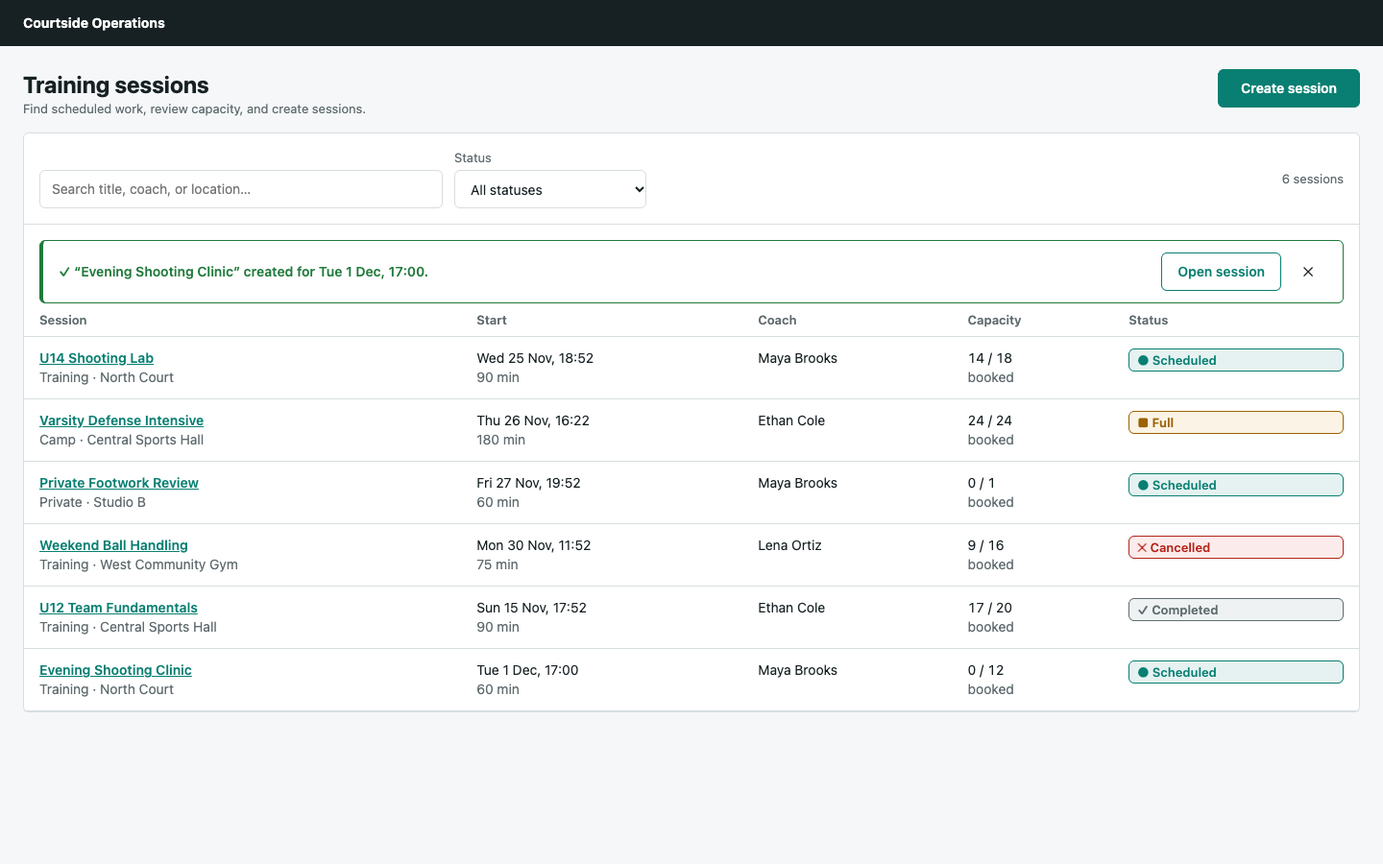
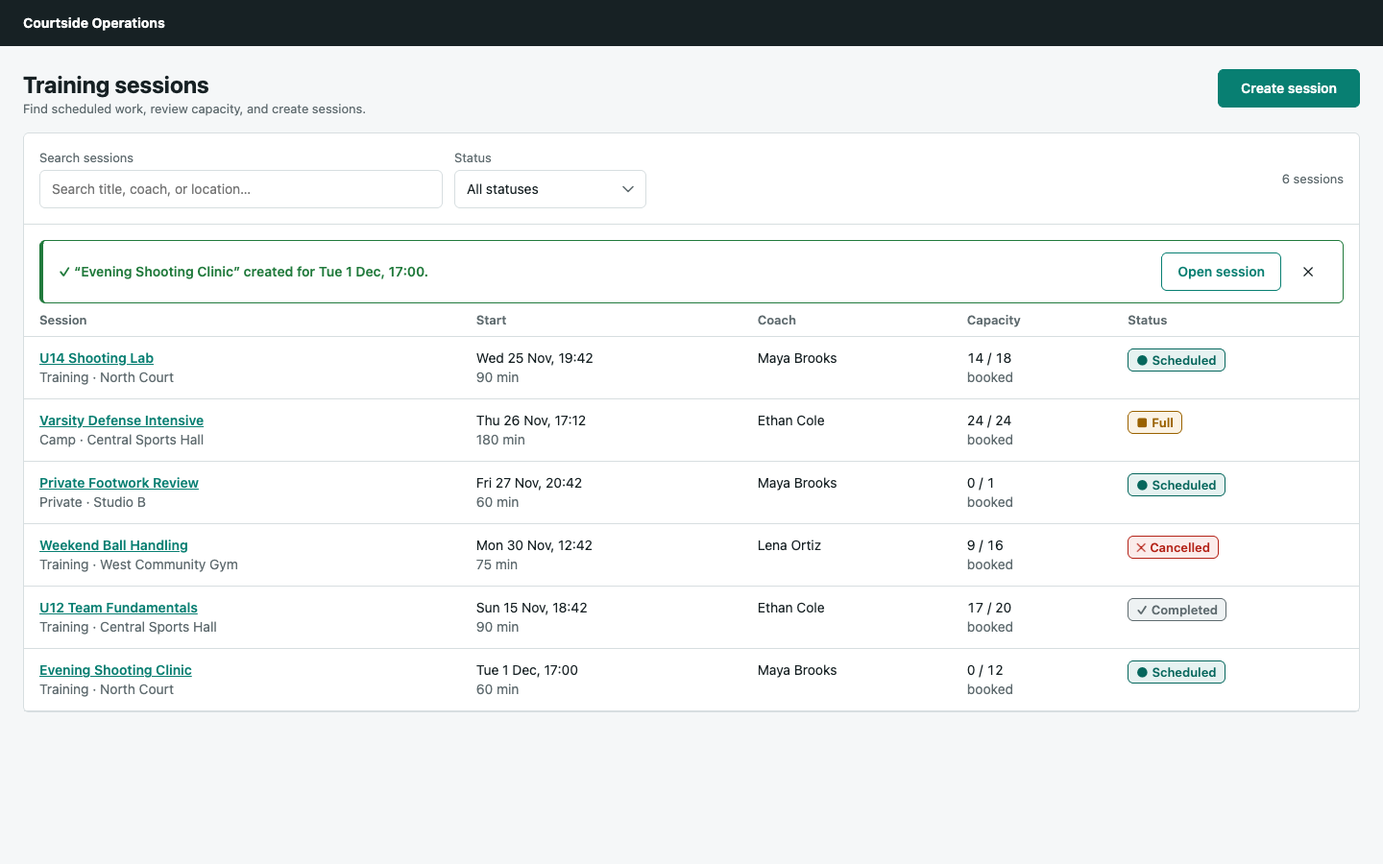
docs: TASK-001 review, verification and final browser evidence
- review.md and verification.md transcribed from the prompt log
  (code-review rounds L33-L51 with dispositions; verify runs L43, L55,
  L59, L63), including post-review changes made without a coder role
- browser-verification.md: final full run (session task001-final) on
  current code, PASS; all screenshots re-captured, plus mobile
  create-error and list-error captures
- final-report.md updated to reference the final run and the new files

diff --git a/tasks/TASK-001/browser-verification.md b/tasks/TASK-001/browser-verification.md
@@ -1,8 +1,59 @@
 # TASK-001 Browser Verification
 
-Current verdict: **PASS**. This comes from the re-verification run (session `task001-reverify`, see "Re-verification of F1–F4" below), after the F1–F4 fixes.
+Current verdict: **PASS**. This comes from the final full run on the current code (session `task001-final`, see "Final verification on current code" below).
 
-The first run (session `task001-verify`) returned **FAIL** because of F1 and F2. Its record is kept below, and its screenshots of the populated, no-matches, list-error, details-error, coaches-error and create-error states were replaced by the re-verification captures. It superseded an earlier BLOCKED record (Node 23.11.1); that run was re-done after the runtime switched to Node 24.22.3.
+Earlier runs, kept below as history:
+- **Re-verification of F1–F4** (session `task001-reverify`): **PASS**.
+- **First run** (session `task001-verify`): **FAIL**, because of F1 and F2.
+- **An earlier record**: **BLOCKED** (Node 23.11.1).
+
+**All screenshots in `evidence/` were re-captured in the final run.** Their descriptions in the older sections refer to earlier captures, which were overwritten.
+
+## Final verification on current code
+
+| Item | Value |
+| --- | --- |
+| Date | 2026-11-18 |
+| Code state | HEAD `26ceb86` (production code identical to `ff53791`: `git diff ff53791 HEAD -- src index.html package.json vite.config.ts` is empty). This includes the backdrop-click close (`6d85645`) and the visible search label with padded select chevron (`ff53791`). |
+| Readiness gate | `node toolchain/bin/doctor.mjs --json` → **DEGRADED**. node 24.22.3 PASS, manifest PASS, `capability:browser` agent-browser@0.32.3 PASS, `hooks:claude` ACTIVE, `hooks:codex` PENDING_ACTIVATION (not the assessed runtime), lint PASS. |
+| Adapter / session | `node toolchain/bin/agent-browser.mjs`, session `task001-final` |
+| URL | `http://localhost:5173/` |
+| Server ownership | Pre-existing user Vite dev server, PID 82635 (`node …/node_modules/.bin/vite`, cwd = repo root). Not started or stopped by this role. |
+| Viewports | 1440×900 and 390×844 |
+
+| State / flow | Verdict | Interactions and observations |
+| --- | --- | --- |
+| Populated 1440×900 | PASS | Snapshot: h1 "Training sessions", button "Create session", searchbox "Search sessions" (visible label), combobox "Status", region "Sessions" with 5 column headers and 5 row links. Count "5 sessions". `scrollWidth` 1440 = `innerWidth`. Badges `inline-flex`, 57–103px. `evidence/populated-desktop.png` |
+| Populated 390×844 | PASS | `scrollWidth` 390 = `innerWidth`; 0 elements cross the viewport edges; 0 links/buttons/inputs/selects under 44px. Tab order: Skip link → Create session → search → status → first session link, each with a 2px solid outline. `evidence/populated-mobile.png` |
+| Details: keyboard | PASS | 390×844: Enter on the focused "U14 Shooting Lab" → `:modal` dialog, `?session=ses_101`, focus on `#session-details-title`. Esc → URL cleared, focus back on the link. `evidence/details-mobile.png` |
+| Details: backdrop click (`6d85645`) | PASS | 1440×900: click inside the panel (1200,400) → stays open. Click on the backdrop (200,400) → closes, URL cleared, focus on the originating link. |
+| List context | PASS | `?query=maya&status=scheduled` → 2 rows. Open details → `…&session=ses_101`. Browser Back → same URL, 2 rows, focus on the link. Filtering is server-side (`GET /api/sessions?query=maya&status=scheduled` 200). |
+| No matches | PASS | `?query=zzz` → "No sessions match your filters / Search “zzz” / Clear filters" (`evidence/no-matches-desktop.png`). Clicking the block's Clear filters → `flashedEmpty=false` (MutationObserver sampled every 60 ms for 1.2 s); focus on `#session-search`; 5 rows. |
+| Empty (`scenario=empty`) | PASS | "No sessions yet / Create the first session to start scheduling. / Create session". `evidence/empty-desktop.png` |
+| Create: validation | PASS | Empty submit → 7 controls `aria-invalid` (title, date, time, capacity, coach, location name, address), 6 inline errors, focus on `#create-title`, `aria-describedby="create-title-error"`, no POST. Past start → "⚠ Choose a start time in the future." `evidence/create-validation-desktop.png` |
+| Create: pending prevention | PASS | Submit clicked 3× (two within 30 ms) → button "Creating…" and disabled; exactly **1** `POST /api/sessions` 201 for this create. |
+| Create: success and discoverability | PASS | Banner "✓ “Evening Shooting Clinic” created for Tue 1 Dec, 17:00." with Open session; focus on the banner; list "6 sessions", new title last (`evidence/create-success-desktop.png`). Open session → `?session=ses_new_1`. With `status=cancelled`: banner adds "It’s hidden by your current filters." + Reset filters (`evidence/create-hidden-by-filter-desktop.png`). Reset → URL cleared, focus on search, 7 rows ending "Hidden By Filter Camp" (second POST 201). |
+| Create failure (`scenario=create-error`) | PASS | POST 500. Alert "⚠ The session could not be created. Your entries are kept, so you can try again." receives focus. All 8 values preserved (title, date, time, coach, location name, address, capacity, trainer notes). Submit re-enabled. `evidence/create-error-desktop.png`, and at 390×844 (`scrollWidth` 390) `evidence/create-error-mobile.png` |
+| List error (`scenario=list-error`) | PASS | Alert "⚠ Sessions cannot be loaded right now." + Retry; the toolbar stays usable. Retry sends a new request (500 again; the scenario is fixed). `evidence/list-error-mobile.png`, `evidence/list-error-desktop.png` |
+| Details error (`scenario=details-error&session=ses_101`) | PASS | Dialog "U14 Shooting Lab" with in-dialog alert "⚠ Session details cannot be loaded right now." + Retry. The list (5 rows) is unaffected. Back to sessions → focus on the "U14 Shooting Lab" link. `ses_102` then loads normally. `evidence/details-error-desktop.png` |
+| Unknown session (`?session=ses_unknown`) | PASS | 404 → dialog heading "Session not found". |
+| Coaches error (`scenario=coaches-error&create=1`) | PASS | Alert "⚠ Coach choices cannot be loaded right now. You can't create a session until they load." + "Retry loading coaches". Coach select disabled, submit disabled, visible reason "Coach choices are required before you can create a session." Retry sends a new request (500 again). `evidence/coaches-error-desktop.png` |
+| Reduced motion | PASS | Emulated `prefers-reduced-motion: reduce` → open dialog `animation-name: none`. |
+
+**Console:** levels were log 174, debug 12, info 6, and startGroupCollapsed/endGroup 54 (MSW request logging). **0 error and 0 warning entries.** The console was cleared once, after the page load and before any interaction, and not again; it covers the whole run.
+
+**Page errors:** none.
+
+**Network:**
+- Non-2xx `/api` responses were only the scenario-expected ones: `POST /api/sessions` 500 (create-error), `GET /api/sessions` 500 ×2 (list-error and retry), `GET /api/sessions/ses_101` 500 (details-error), `GET /api/sessions/ses_unknown` 404, `GET /api/coaches` 500 ×2 (coaches-error and retry).
+- No failed non-API requests.
+- No unexpected navigation.
+
+**Not verified in this run:**
+- Esc on a dirty create form (it involves the native `confirm()`, not driven by the adapter). The developer-reported Esc failure was not reproduced: Esc closed details here.
+- Screen-reader announcements; Firefox and Safari; real touch devices; long-content stress.
+
+**Closure:** `close` → `session list` "No active sessions". PID 82635 is still running and was not stopped.
 
 ## Setup
 

diff --git a/tasks/TASK-001/final-report.md b/tasks/TASK-001/final-report.md
@@ -12,12 +12,13 @@ Training Sessions Workspace per `frontend-accelerator-assessment/FRONTEND_ASSESS
 | `777a5b1` | Implementation, essential tests, review and browser-verification fixes, browser evidence |
 | `6d85645` | Fix: close dialogs on backdrop click (developer-reported) |
 | `ff53791` | Fix: visible search label, padded select chevrons (developer-reported) |
+| `26ceb86` | Documentation only: `final-report.md` (no production code change vs `ff53791`) |
 
 Branch: `task-001-sessions-workspace`. `main` remains at `9cf16da`. Nothing has been pushed.
 
 ## 2. Code review evidence
 
-`review.md` has **not** been written; the verdicts below are preserved only in the prompt log.
+Full record: `review.md`, transcribed from the prompt log.
 
 | Round | Verdict | Findings and disposition | Source |
 | --- | --- | --- | --- |
@@ -30,7 +31,7 @@ The two developer-reported fixes after the review rounds (`6d85645`, `ff53791`) 
 
 ## 3. Automated verification evidence
 
-`verification.md` has **not** been written.
+Full record: `verification.md`, transcribed from the prompt log.
 
 **Formal `verify` role run** (L43; working directory `/Users/user/Documents/fe-accelerator-cert`; Node v23.11.1, npm 10.9.2). This ran before the F1–F4 fixes and the later commits.
 
@@ -59,27 +60,27 @@ Full record: `browser-verification.md`. Screenshots: `evidence/`.
 | --- | --- | --- | --- |
 | 1 | BLOCKED | Doctor `BLOCKED`: Node.js 23.11.1 unsupported. No browser was opened. | L45 |
 | 2: session `task001-verify` | FAIL | Every required flow works. Defects: F1 Scheduled badge contrast 4.27:1; F2 "No sessions yet" flash after clearing filters; F3 badges stretched full width; F4 duplicated alert copy. | L47 |
-| 3: session `task001-reverify` | **PASS** | F1 5.90:1, F2 no flash in 3 sampled runs, F3 badges `inline-flex` 57–103px, F4 single-message alerts with input preserved. 0 console errors/warnings, 0 page errors; only scenario-expected 500s. | L53 |
+| 3: session `task001-reverify` | PASS | F1 5.90:1, F2 no flash in 3 sampled runs, F3 badges `inline-flex` 57–103px, F4 single-message alerts with input preserved. 0 console errors/warnings, 0 page errors; only scenario-expected 500s. | L53 |
+| 4: session `task001-final`, current code (`26ceb86` = `ff53791` for production code) | **PASS** (current) | Full required matrix re-run, including backdrop-click close and the visible search label. All 12 screenshots were re-captured, and 2 mobile error-state captures were added (`create-error-mobile.png`, `list-error-mobile.png`). Console cleared once before any interaction: 0 errors/warnings, 0 page errors. Only scenario-expected non-2xx responses (500s and one 404); no failed non-API requests. | L71 |
 
 **Environment:** URL `http://localhost:5173/`. The server is a pre-existing user Vite dev server (PID 82635); it was neither started nor stopped by the role. Viewports were 1440×900 and 390×844. Adapter sessions were closed after each run ("No active sessions").
 
-**Required matrix, as covered by runs 2–3:**
+**Required matrix, as covered by run 4** (also covered by runs 2–3 on earlier code):
 - populated desktop and mobile, including the accessibility snapshot, Tab order, focus outline, no horizontal overflow, and 44px targets;
 - create: validation, pending prevention (3 rapid clicks → 1 POST), success and hidden-by-filter discoverability;
 - create failure with preserved input;
 - empty and no-matches as distinct states;
-- list, details and coaches errors, and an unknown session (404).
+- list, details and coaches errors, and an unknown session (404);
+- in run 4 only: backdrop click closes details and a click inside does not; Esc closes details; reduced motion disables the dialog animation.
 
-**Ad-hoc browser checks outside the `browser-verify` role** (headless Chromium via the project adapter):
+**Earlier ad-hoc browser checks outside the `browser-verify` role** (headless Chromium via the project adapter; since superseded by run 4):
 - backdrop click closes the dialog, clicks inside do not, and a drag from inside to the backdrop does not; Esc closes both dialogs (L57);
 - search label alignment and select chevron at both viewports (L61).
 
 ## 5. Limitations and unverified items
 
-- **Stale screenshots:** `evidence/*.png` predate `ff53791`. They show the old toolbar (no visible search label, native select arrow). `browser-verify` has not been re-run since `6d85645` and `ff53791`.
-- **Esc report:** the developer reported that Esc did not close the modal. This could not be reproduced in headless Chromium (L57). The browser and version have not been confirmed.
-- **Not verified:** Chrome's repeated-Esc behaviour with the native `confirm()`, screen-reader announcements, Firefox and Safari, real touch devices, long-content stress, and mobile screenshots of error and create states (browser-verification.md "Not verified").
-- **Console gap:** the run-2 console was cleared mid-run. The first filter and create pass is covered only by a later normal-flow re-check (browser-verification.md).
+- **Esc report:** the developer reported that Esc did not close the modal. This could not be reproduced in headless Chromium (L57, L71). The developer's browser and version have not been confirmed.
+- **Not verified:** Esc on a dirty create form (native `confirm()`), screen-reader announcements, Firefox and Safari, real touch devices, long-content stress (browser-verification.md, final run "Not verified").
 - **Missing automated tests:** `details-error`, `coaches-error`, details deep link, duplicate submit (review rounds 1–4 "Remaining gaps").
 - **Accepted limitation:** server field errors are cleared when any field is edited after the first submit (review round 1 and 2 dispositions).
 
@@ -104,10 +105,10 @@ Full record: `browser-verification.md`. Screenshots: `evidence/`.
 | --- | --- |
 | requirements, architecture, api-integration, ui-design, implementation-plan | present, committed in `9cf16da` before `coder` |
 | workflow-log.md | present. Planning checkpoint is recorded. **Developer-recorded fields are blank:** assessment starting commit, start/finish, breaks, active/calendar time, runtime/accelerator version, setup method, Doctor result. "Skipped or invoked contextual roles" is empty. |
-| review.md | **missing** (verdicts only in prompt log L33–L51) |
-| verification.md | **missing** (results only in prompt log L43, L55, L59, L63) |
-| browser-verification.md | present (current verdict PASS, predates `6d85645` / `ff53791`) |
-| evidence/populated-desktop.png, populated-mobile.png | present (pre-`ff53791` toolbar) |
+| review.md | present (transcribed from prompt log L33–L63) |
+| verification.md | present (transcribed from prompt log L43, L55, L59, L63) |
+| browser-verification.md | present (current verdict PASS from run 4 on current code) |
+| evidence/populated-desktop.png, populated-mobile.png | present (re-captured in run 4 on current code), plus 12 further flow screenshots |
 | final-report.md | this file |
 
 Time values are not included here. They must be developer-recorded in `workflow-log.md` and are not inferred.

diff --git a/tasks/TASK-001/review.md b/tasks/TASK-001/review.md
@@ -1,0 +1,76 @@
+# TASK-001 Review Evidence
+
+This file transcribes the actual `code-reviewer` verdicts and findings from `workflow-evidence/prompt-log.jsonl` (L*n* = line number; each is a `Stop` event carrying the role's full response). Nothing here was re-reviewed or re-judged while writing it.
+
+- **Reviewer independence:** the reviewer ran in the same session and model as `coder`. Every review response states "I wrote this code, so this review isn't independent."
+- **Review surface:** the working tree (including untracked `src/**`) against the planning checkpoint `9cf16da`. The `dirty` field of each log entry shows the uncommitted file set.
+
+## Round 1: full TASK-001 diff
+
+- Source: L33, 2026-11-18T13:37:15Z
+- **Verdict: NEEDS-CHANGES** (2 should-fix, 3 minor)
+
+| # | Severity | Finding | Disposition |
+| --- | --- | --- | --- |
+| 1 | Should-fix | `src/components/Dialog.tsx:40`: only `cancel` was handled, not the native `close` event. If the browser closes a dialog itself (e.g. Chrome ignores a repeated-Esc `preventDefault`), the URL keeps `create=1`/`session=` and "Create session" can no longer reopen it. | **Resolved**: `coder` (L35) added an `onClose` handler (`onDismiss`) that clears URL state on a browser-initiated close. A regression check closes the dialog natively and reopens it; it failed with the fix disabled and passed with it. |
+| 2 | Should-fix | `SessionsWorkspace.tsx:80,103,121`: Reset filters (banner), Clear filters (no-matches) and Clear filters (invalid-filter alert) remove themselves, so keyboard focus is lost (AC-8). | **Resolved** (L35): the shared clear-filters action moves focus to `#session-search`. The test asserts focus after Reset filters. |
+| 3 | Minor | `src/main.tsx:8`: a rejected `startMocks()` leaves a blank page. | **Resolved** (L35): the rejection handler logs the error and renders a message. |
+| 4 | Minor | `CreateSessionDialog.tsx:86,271`: a server `visibility` field error has no render slot or focus target. Separately, server field errors are cleared by any edit after the first submit. | **Resolved** (L35) for the visibility slot and focus target. **Accepted limitation** for clearing on edit: not reachable from the UI because the form always sends valid values. Impact: a future backend field error disappears on the next edit. |
+| 5 | Minor | `src/mocks/db.ts:75`: `crypto.randomUUID()` requires a secure context, so create returns 500 over LAN http. | **Resolved** (L35): ids come from a counter (`ses_new_N`). |
+
+## Round 2: re-review of round-1 fixes
+
+- Source: L37, 2026-11-18T13:42:21Z
+- **Verdict: NEEDS-CHANGES** (1 should-fix, marked "likely, needs a browser to confirm")
+
+| # | Severity | Finding | Disposition |
+| --- | --- | --- | --- |
+| 6 | Should-fix | `Dialog.tsx:29-31,49-51`: under the StrictMode remount, a queued `close` event from the cleanup can arrive after `showModal()` and dismiss a freshly opened dialog in dev. The tests missed it because they render without StrictMode and the jsdom stand-in fires `close` synchronously. | **Resolved** by `coder` (L39): the handler also requires `!ref.current?.open`. `src/test/setup.ts` now enables `reactStrictMode` and dispatches `close` asynchronously. 3 tests failed with the guard removed; 6/6 passed with it. |
+
+Round 1 findings 1–5 were confirmed resolved in this round. Finding 4's clear-on-edit part was confirmed as an accepted limitation.
+
+## Round 3: re-review of the Dialog fix
+
+- Source: L41, 2026-11-18T13:43:22Z
+- **Verdict: PASS.** No findings.
+
+## Round 4: re-review of browser-verification fixes F1–F4
+
+- Source: L51, 2026-11-18T14:02:09Z
+- **Verdict: PASS.** One optional finding.
+
+F1–F4 came from `browser-verify` run 2 (L47) and were fixed by `coder` (L49):
+
+| ID | Defect | Fix |
+| --- | --- | --- |
+| F1 | Scheduled badge contrast 4.27:1 | Badge text uses `--primary-hover`, 5.90:1 |
+| F2 | "No sessions yet" flashed after clearing filters | Each list result carries the filters that produced it. A MutationObserver regression check failed before the fix and passed after. |
+| F3 | Badges stretched across the full column | Table span rules exclude `.badge` |
+| F4 | Alerts showed duplicated copy | One message per alert |
+
+This round confirmed all four.
+
+| # | Severity | Finding | Disposition |
+| --- | --- | --- | --- |
+| 7 | Optional (copy) | `CreateSessionDialog.tsx:93`: on a network failure the create alert says "try again" twice. | **Unresolved** (optional; no change made). |
+
+## Production changes after the last review
+
+Both changes below were made directly in the main session at the developer's request, **without** a `coder` role invocation, and **without** another `code-reviewer` pass.
+
+| Commit | Change | Checks performed |
+| --- | --- | --- |
+| `6d85645` | Close dialogs on backdrop click (developer-reported issue, L56–L57). | Regression assertion added to test 1; it failed with the fix disabled and passed with it. Ad-hoc browser check in headless Chromium via the project adapter (L57). Pre-commit `verify` PASS (L59). |
+| `ff53791` | Visible search label and padded select chevron (developer-reported, L60–L61). | Ad-hoc browser check at both viewports (L61). Pre-commit `verify` PASS (L63). |
+
+The developer's report that Esc did not close the modal could not be reproduced (L57). It remains **unresolved** pending the developer's browser and steps.
+
+## Summary
+
+| Round | Verdict | Open items after the round |
+| --- | --- | --- |
+| 1 (L33) | NEEDS-CHANGES | 5 → all resolved by L35, with one accepted limitation |
+| 2 (L37) | NEEDS-CHANGES | 1 → resolved by L39 |
+| 3 (L41) | PASS | 0 |
+| 4 (L51) | PASS | 1 optional copy nit, unresolved |
+| Post-review commits | not reviewed | Esc report unresolved |

diff --git a/tasks/TASK-001/verification.md b/tasks/TASK-001/verification.md
@@ -1,0 +1,59 @@
+# TASK-001 Verification Evidence
+
+This file transcribes automated check results from `workflow-evidence/prompt-log.jsonl` (L*n* = line number). No checks were re-run while writing it. Browser verification is recorded separately in `browser-verification.md`.
+
+- **Working directory:** `/Users/user/Documents/fe-accelerator-cert` for all runs.
+- **Project scripts:** `build` = `tsc -b && vite build`, `lint` = `eslint .`, `test` = `vitest run`, `dev` = `vite`, `preview` = `vite preview`.
+
+## Formal `verify` role run
+
+- Source: L43, 2026-11-18T13:44:55Z
+- Runtime: Node v23.11.1, npm 10.9.2
+- Code state: `gitHead` `9cf16da` with the uncommitted implementation, including review fixes through round 3. F1–F4 and the later commits were **not** included yet.
+- **Verdict: PASS**
+
+| Check | Command | Exit | Decisive output |
+| --- | --- | --- | --- |
+| Typecheck | `npx tsc -b` | 0 | no errors |
+| Lint | `npm run lint` | 0 | 0 errors, 1 warning: "Unused eslint-disable directive" in generated `public/mockServiceWorker.js` |
+| Tests | `npm test` (Vitest 5.1.1) | 0 | Test Files 1 passed (1); Tests 6 passed (6); 3.75s; no stderr, warning or console-error lines in the output |
+| Build | `npm run build` | 0 | built in 121ms; `dist/assets/index-*.js` 682.92 kB (gzip 238.54 kB); Vite warns about chunks larger than 500 kB (expected, because MSW and fixtures are always bundled per architecture D4) |
+
+| Not run | Reason |
+| --- | --- |
+| Formatting | Not applicable: no formatter config or format script exists. |
+| End-to-end | Not applicable: none configured. |
+| Browser | Out of scope for this role; see `browser-verification.md`. |
+
+Raw output from this run was written to `/tmp/v.out`, not the session scratchpad. That has no effect on the results.
+
+## Pre-commit verification runs
+
+Before each commit, the same four commands were run in the main session as a `verify` invocation. The assistant initiated these under the session rule "run verify right before commit"; they were **not** a separately developer-selected role.
+
+All three runs used Node v24.22.3.
+
+| Before commit | Recorded in | `npx tsc -b` | `npm run lint` | `npm test` | `npm run build` | Verdict |
+| --- | --- | --- | --- | --- | --- | --- |
+| `777a5b1` (implementation, review and F1–F4 fixes, browser evidence) | L55 | exit 0 | exit 0; 0 errors, same 1 warning | exit 0; 6/6 passed | exit 0; built; same chunk-size warning | PASS |
+| `6d85645` (backdrop-click close) | L59 | exit 0 | exit 0; 0 errors, same 1 warning | exit 0; 6/6 passed | exit 0; built in 115ms | PASS |
+| `ff53791` (search label, select chevron) | L63 | exit 0 | exit 0; 0 errors, same 1 warning | exit 0; 6/6 passed | exit 0; built in 112ms | PASS |
+
+**Test-count note:** the suite stayed at 6 tests. Regression assertions were added inside existing tests:
+- native close and reopen (round 1, finding 1);
+- StrictMode with an async `close` (round 2);
+- MutationObserver flash check (F2);
+- single alert message (F4);
+- focus after Reset filters;
+- backdrop-click close (`6d85645`).
+
+## Final Git state observed
+
+- After `ff53791` (L63): working tree clean.
+- Branch: `task-001-sessions-workspace` (`9cf16da` → `777a5b1` → `6d85645` → `ff53791`). `main` is at `9cf16da`. Nothing has been pushed.
+- After that, `tasks/TASK-001/final-report.md`, this file and `review.md` were written. They are uncommitted documentation, with no code change.
+
+## Unverified or out of scope here
+
+- No `verify` run has been made against documentation-only changes after `ff53791` (not applicable: docs only).
+- Browser-level gaps are listed in `browser-verification.md`. In particular, the screenshots predate `6d85645` and `ff53791`.

diff --git a/tasks/TASK-001/workflow-log.md b/tasks/TASK-001/workflow-log.md
@@ -36,7 +36,9 @@ Full prompts, role tasks and responses: `workflow-evidence/prompt-log.jsonl` (lo
 | 2026-11-18T14:00:51.210Z | coder | /coder Fix browser-verification defects F1–F4 for TASK-001 | log L49 | not detected | /code-reviewer Re-review the F1–F4 fixes |
 | 2026-11-18T14:02:09.279Z | code-reviewer | /code-reviewer Re-review the F1–F4 fixes | log L51 | not detected | /browser-verify Re-verify F1–F4 fixes and update browser-verification.md |
 | 2026-11-18T14:03:58.797Z | browser-verify | /browser-verify Re-verify F1–F4 fixes and update browser-verification.md | `tasks/TASK-001/browser-verification.md`; log L53 | not detected | Prepare a commit message and commit changes |
-| 2026-11-18T14:26:40.212Z | docs-generator | /docs-generator Assemble only the actual review, browser, and verification evidence into tasks/TASK-001/final-report.md. | `tasks/TASK-001/final-report.md`; log L65 | not detected | pending |
+| 2026-11-18T14:26:40.212Z | docs-generator | /docs-generator Assemble only the actual review, browser, and verification evidence into tasks/TASK-001/final-report.md. | `tasks/TASK-001/final-report.md`; log L65 | not detected | According to @frontend-accelerator-assessment/EVALUATION_RUBRIC.md give the final score for the curr… |
+| 2026-11-18T14:46:46.099Z | browser-verify | /browser-verify | log L71 | not detected | /docs-generator Update final-report.md with the final browser verification evidence |
+| 2026-11-18T14:47:46.929Z | docs-generator | /docs-generator Update final-report.md with the final browser verification evidence | `tasks/TASK-001/final-report.md`; log L73 | not detected | Commit the changes |
 <!-- workflow-table:end -->
 
 ## Skipped or invoked contextual roles
